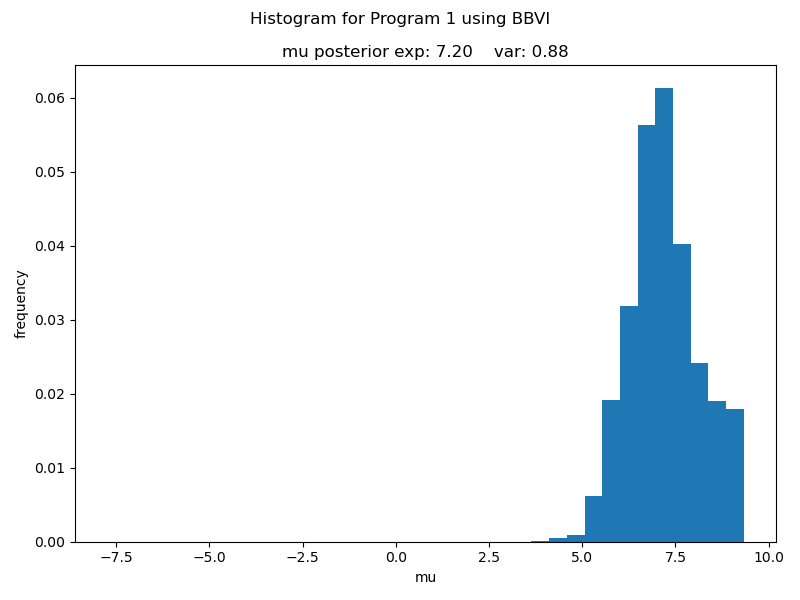
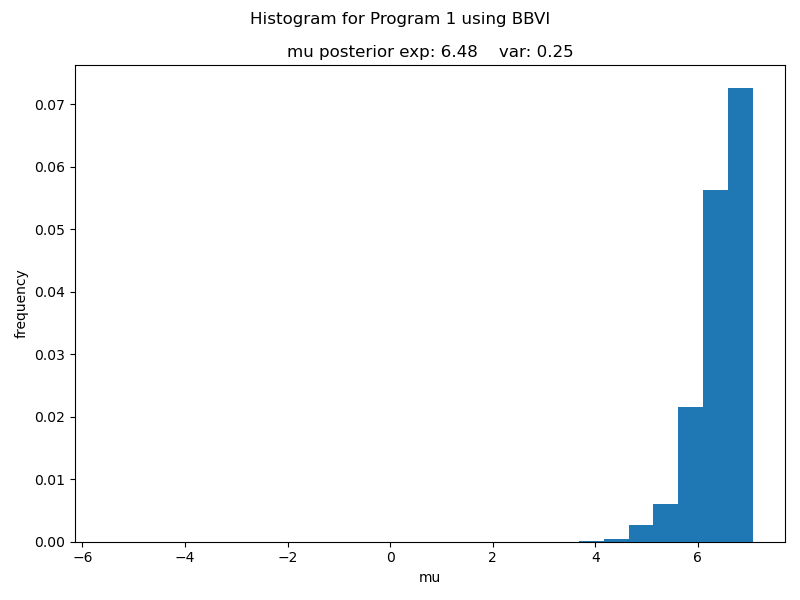
refactoring to graph

diff --git a/Kevin/FOPPL/main.py b/Kevin/FOPPL/main.py
@@ -8,10 +8,10 @@ from utils import nth
 
 if __name__ == "__main__":
     daphne_input_nums = [1, 2, 5, 6, 7]
-    num_samples = int(1e4)
+    num_samples = int(1e2)
     num_points = 10000  # number of points to plot
 
-    debug_start = 2
+    debug_start = 0
     importance_sampler = ImportanceSampler()
     mh_gibbs_sampler = MHGibbsSampler()
     hmc_sampler = HMCSampler(T=10, epsilon=0.1)
@@ -30,73 +30,73 @@ if __name__ == "__main__":
 
         # ================================HW3=========================================
 
-        # ============ IS ===============
-        start = time.time()
-        samples = importance_sampler.sample(num_samples, num)
-        end = time.time()
-        print('Took {0:.2f} seconds to finish Program {1}'.format(end - start, num))
-
-        importance_sampler.summary(num, samples)
-        importance_sampler.plot(num, samples, num_points, save_plot=True)
-
-
-        # ============ MH-Gibbs ===============
-        if num == 2:
-            num_samples = 25000
-
-        if num == 5:
-            num_samples = 3000
-
-        if num == 6:
-            num_samples = 6000
-
-        if num == 7:
-            num_samples = 20000
-
-        start = time.time()
-        samples = mh_gibbs_sampler.sample(num_samples, num)
-        end = time.time()
-        print('Took {0:.2f} seconds to finish Program {1}'.format(end - start, num))
-
-        mh_gibbs_sampler.summary(num, samples)
-        mh_gibbs_sampler.plot(num, samples, num_points, save_plot=True)
-
-        # ============ HMC ===============
-        if num in [5, 6]:
-            num_samples = 100000
-            continue
-
-        if num == 1:
-            num_samples = 20000
-
-        if num == 2:
-            num_samples = 10000
-
-        if num == 7:
-            num_samples = 20000
-
-        # HMC
-        attempt = 1
-        while True:
-            try:
-                print(nth[attempt], 'attempt')
-                start = time.time()
-                samples = hmc_sampler.sample(num_samples, num)
-                end = time.time()
-            except ValueError:
-                attempt += 1
-                continue
-            break
-
-        print('Took {0} seconds to finish Program {1}'.format(end - start, num))
-
+        # # ============ IS ===============
         # start = time.time()
-        # samples = hmc_sampler.sample(num_samples, num)
+        # samples = importance_sampler.sample(num_samples, num)
         # end = time.time()
         # print('Took {0:.2f} seconds to finish Program {1}'.format(end - start, num))
-
-        hmc_sampler.summary(num, samples)
-        hmc_sampler.plot(num, samples, num_points, save_plot=True)
-
-        num_samples = 100000
-
+        #
+        # importance_sampler.summary(num, samples)
+        # importance_sampler.plot(num, samples, num_points, save_plot=True)
+        #
+        #
+        # # ============ MH-Gibbs ===============
+        # if num == 2:
+        #     num_samples = 25000
+        #
+        # if num == 5:
+        #     num_samples = 3000
+        #
+        # if num == 6:
+        #     num_samples = 6000
+        #
+        # if num == 7:
+        #     num_samples = 20000
+        #
+        # start = time.time()
+        # samples = mh_gibbs_sampler.sample(num_samples, num)
+        # end = time.time()
+        # print('Took {0:.2f} seconds to finish Program {1}'.format(end - start, num))
+        #
+        # mh_gibbs_sampler.summary(num, samples)
+        # mh_gibbs_sampler.plot(num, samples, num_points, save_plot=True)
+        #
+        # # ============ HMC ===============
+        # if num in [5, 6]:
+        #     num_samples = 100000
+        #     continue
+        #
+        # if num == 1:
+        #     num_samples = 20000
+        #
+        # if num == 2:
+        #     num_samples = 10000
+        #
+        # if num == 7:
+        #     num_samples = 20000
+        #
+        # # HMC
+        # attempt = 1
+        # while True:
+        #     try:
+        #         print(nth[attempt], 'attempt')
+        #         start = time.time()
+        #         samples = hmc_sampler.sample(num_samples, num)
+        #         end = time.time()
+        #     except ValueError:
+        #         attempt += 1
+        #         continue
+        #     break
+        #
+        # print('Took {0} seconds to finish Program {1}'.format(end - start, num))
+        #
+        # # start = time.time()
+        # # samples = hmc_sampler.sample(num_samples, num)
+        # # end = time.time()
+        # # print('Took {0:.2f} seconds to finish Program {1}'.format(end - start, num))
+        #
+        # hmc_sampler.summary(num, samples)
+        # hmc_sampler.plot(num, samples, num_points, save_plot=True)
+        #
+        # num_samples = 100000
+        #

diff --git a/Kevin/FOPPL/bbvi.py b/Kevin/FOPPL/bbvi.py
@@ -1,11 +1,10 @@
 from evaluation_based_sampling import evaluate_program
+from graph_based_sampling import sample_from_joint, topological_sort
 from sampler import Sampler
 from utils import load_ast, create_fresh_variables, clone
-from distributions import Normal
 import numpy as np
 import matplotlib.pyplot as plt
 import wandb
-import os
 import torchviz
 
 import torch
@@ -18,13 +17,10 @@ class BBVI(Sampler):
 
     def __init__(self,
                  lr=1e-2,
-                 family=Normal(torch.FloatTensor([1]),
-                               torch.FloatTensor([3])),
                  optimizer=torch.optim.Adam):
 
         super().__init__('BBVI')
         self.lr = lr
-        self.family = family
         self.optimizer = optimizer
 
     def plot_elbo(self, elbo_trace, num):
@@ -67,6 +63,7 @@ class BBVI(Sampler):
         """
 
         L = len(G)
+        num_params = len(list(G[0].values())[0])  # get number of parameters
 
         # obtain the union of all gradient maps
         union = []
@@ -82,6 +79,7 @@ class BBVI(Sampler):
             G_one_to_L_v = torch.empty(0)
             for l in range(L):
                 if v in list(G[l].keys()):
+                    # BUG: dirichlet parameters become very sparse (e.g. [1, 0, 0])....
                     F_l_v = G[l][v] * logW[l]  # TODO: I think the textbook has a typo on this one
                 else:
                     F_l_v, G[l][v] = 0, 0
@@ -90,7 +88,6 @@ class BBVI(Sampler):
                 G_one_to_L_v = torch.cat((G_one_to_L_v, G[l][v]), 0)
 
             # reshape the tensors
-            num_params = int(len(F_one_to_L_v) / L)  # compute the number of parameters
             F_one_to_L_v = torch.reshape(F_one_to_L_v, (L, num_params))
             G_one_to_L_v = torch.reshape(G_one_to_L_v, (L, num_params))
 
@@ -117,20 +114,18 @@ class BBVI(Sampler):
 
         print('=' * 10, 'Black-Box Variational Inference', '=' * 10)
 
-        ast = load_ast('programs/saved_asts/hw3/program{}.pkl'.format(num))
-        ast = create_fresh_variables(ast)
+        ast = load_ast('programs/saved_asts/hw3/program{}_graph.pkl'.format(num))
+        sampling_order = topological_sort(ast)
+        # ast = create_fresh_variables(ast)
 
         sig = {
             'O': {},   # map to optimizer for each variable
             'Q': {},
-            'family': self.family,
             'optimizer': self.optimizer,  # optimizer type (e.g. Adam)
             'lr': self.lr
         }
 
         torch.autograd.set_detect_anomaly(True)
-        # os.environ['WANDB_DISABLE_CODE'] = 'True'
-        # wandb.init()
 
         samples = []
         bbvi_loss = []
@@ -155,7 +150,8 @@ class BBVI(Sampler):
                 sig['G'] = {}
 
                 # r_tl is the return value of the expression (won't have a value for each parameter)
-                r_tl, sig_tl = evaluate_program(ast, sig, self.method)
+                # r_tl, sig_tl = evaluate_program(ast, sig, self.method)
+                r_tl, sig_tl = sample_from_joint(ast, sampling_order)
 
                 G_tl = clone(sig_tl['G'])
 
@@ -170,11 +166,6 @@ class BBVI(Sampler):
             bbvi_loss.append(torch.mean(torch.tensor(sig['logW_list'])))  # make a copy of the ELBO
 
             sig['Q'] = self.optimizer_step(sig, g_hat)
-
-            wandb.log({
-                'ELBO': torch.mean(torch.tensor(sig['logW_list'])),
-                'mu': next(iter(sig['Q'].values()))
-            })
 
         print('Variational distribution: {}'.format(sig['Q']))
 

diff --git a/Kevin/FOPPL/utils.py b/Kevin/FOPPL/utils.py
@@ -3,6 +3,7 @@ import torch
 import random
 import string
 from torch.distributions import normal, beta, exponential, uniform, categorical, bernoulli, gamma, dirichlet
+from distributions import Normal, Bernoulli, Gamma, Dirichlet, Categorical
 from dirac import Dirac
 
 distributions = ['normal', 'beta', 'exponential', 'uniform', 'discrete', 'flip', 'gamma', 'dirichlet', 'dirac']
@@ -107,7 +108,7 @@ def get_distribution(dist_type, parameters):
             params.append(param)
 
     if dist_type == 'normal':
-        return normal.Normal(params[0], params[1])
+        return Normal(torch.FloatTensor([params[0]]), torch.FloatTensor([params[1]]))
     if dist_type == 'beta':
         return beta.Beta(params[0], params[1])
     if dist_type == 'exponential':
@@ -115,13 +116,13 @@ def get_distribution(dist_type, parameters):
     if dist_type == 'uniform':
         return uniform.Uniform(params[0], params[1])
     if dist_type == 'discrete':
-        return categorical.Categorical(probs=params[0])
+        return Categorical(probs=torch.FloatTensor(params[0]))
     if dist_type == 'flip':
-        return bernoulli.Bernoulli(params[0])
+        return Bernoulli(torch.FloatTensor([params[0]]))
     if dist_type == 'gamma':
-        return gamma.Gamma(params[0], params[1])
+        return Gamma(torch.FloatTensor([params[0]]), torch.FloatTensor([params[1]]))
     if dist_type == 'dirichlet':
-        return dirichlet.Dirichlet(params[0])
+        return Dirichlet(torch.FloatTensor(params[0]))
     if dist_type == 'dirac':
         return Dirac(params[0])
 

diff --git a/Kevin/FOPPL/evaluation_based_sampling.py b/Kevin/FOPPL/evaluation_based_sampling.py
@@ -62,7 +62,8 @@ def evaluate_program_helper(ast, sig, variable_bindings):
                 # NOTE: I think v \in dom(sig(Q)) means on line 6 of Alg 11 on pg. 134 is equivalent to checking
                 #  if the key exists
                 if v not in list(sig['Q'].keys()):
-                    sig['Q'][v] = sig['family'].make_copy_with_grads()
+                    dist, sig = evaluate_program_helper(ast[2], sig, variable_bindings)
+                    sig['Q'][v] = dist.make_copy_with_grads()
                     sig['O'][v] = sig['optimizer'](sig['Q'][v].Parameters(), lr=sig['lr'])
 
                 c = sig['Q'][v].sample()
@@ -76,7 +77,10 @@ def evaluate_program_helper(ast, sig, variable_bindings):
                 log_prob.backward()
 
                 # store gradients
-                sig['G'][v] = torch.FloatTensor([p.grad.clone().detach() for p in sig['Q'][v].Parameters()])
+                if len(sig['Q'][v].Parameters()[0]) > 1:  # check if the parameter is already a list itself
+                    sig['G'][v] = sig['Q'][v].Parameters()[0].grad.clone().detach()
+                else:
+                    sig['G'][v] = torch.FloatTensor([p.grad.clone().detach() for p in sig['Q'][v].Parameters()])
                 sig['O'][v].zero_grad()
 
                 logW_v = d.log_prob(c) - sig['Q'][v].log_prob(c)

diff --git a/Kevin/FOPPL/graph_based_sampling.py b/Kevin/FOPPL/graph_based_sampling.py
@@ -1,11 +1,10 @@
 import torch
 import torch.distributions as dist
-import re
+from graph import topological_sort
 
 from daphne import daphne
 
 import primitives
-from graph import Graph
 from tests import is_tol, run_prob_test,load_truth
 from utils import load_ast, substitute_sampled_vertices
 from dirac import Dirac
@@ -69,19 +68,15 @@ def deterministic_eval(exp):
         raise "Expression type unknown."
 
 
-def sample_from_joint(graph):
+def sample_from_joint(graph, sampling_order=None):
     "This function does ancestral sampling starting from the prior."
 
-    # perform topological sort on vertices
-    g = Graph(graph[1]['V'])
-    for key, values in graph[1]['A'].items():
-        for child in values:
-            g.addEdge(key, child)
-    sampling_order = g.topologicalSort()
+    if sampling_order is None:
+        sampling_order = topological_sort(graph)
 
     # ignore observed variables - do not sample them
-    regex = re.compile(r'observe*')
-    sampling_order = [vertex for vertex in sampling_order if not regex.match(vertex)]
+    # regex = re.compile(r'observe*')
+    # sampling_order = [vertex for vertex in sampling_order if not regex.match(vertex)]
 
     for vertex in sampling_order:
         # substitute parent nodes with their sampled values

diff --git a/Kevin/FOPPL/graph.py b/Kevin/FOPPL/graph.py
@@ -5,6 +5,15 @@
 from collections import defaultdict
 
 
+def topological_sort(graph):
+    # perform topological sort on vertices
+    g = Graph(graph[1]['V'])
+    for key, values in graph[1]['A'].items():
+        for child in values:
+            g.addEdge(key, child)
+    return g.topologicalSort()
+
+
 # Class to represent a graph
 class Graph:
     def __init__(self, vertices):
